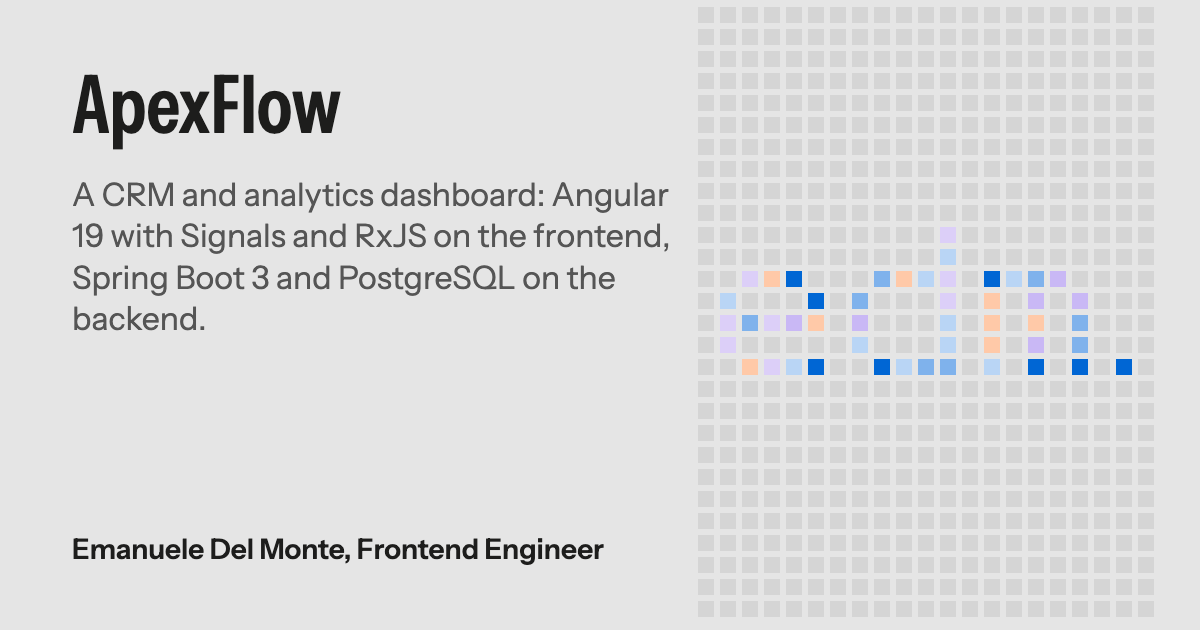
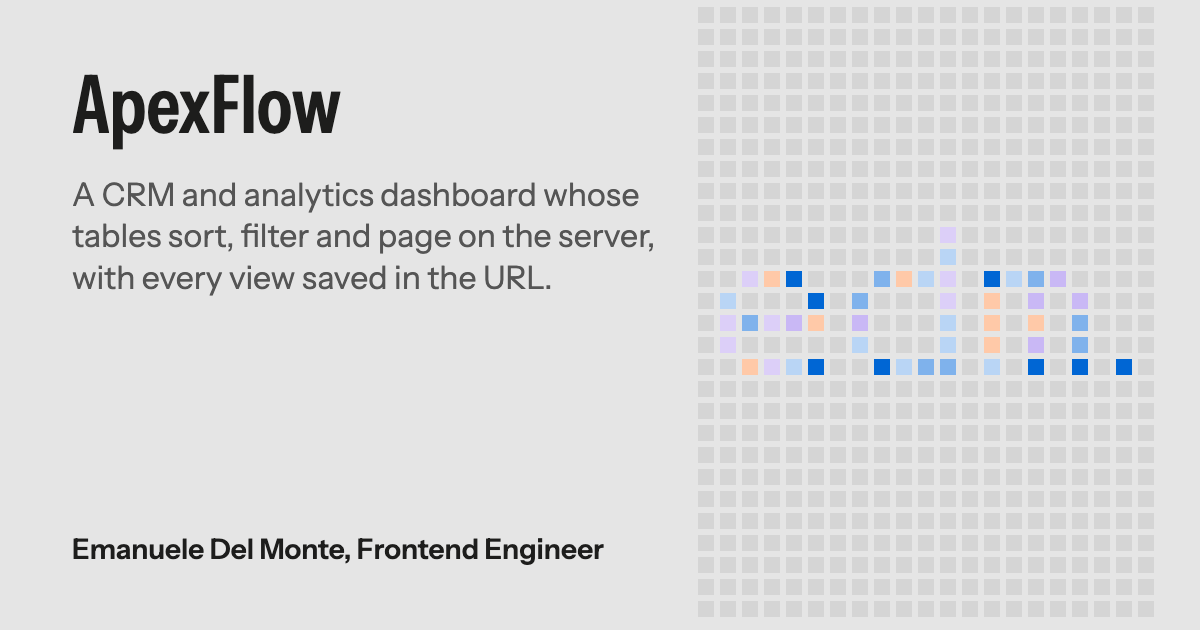
feat: sharper copy for hero, About, projects and contact (#389)
- Hero lede states the positioning: Angular interfaces that stay fast when the data gets big
- About statement becomes a point of view; the first paragraph tells the path since 2022
- ApexFlow summary says what the tables do instead of repeating the stack
- One contact question, "Hiring for a frontend role?", on the home and case studies
- New Project.result: one true outcome per project, bold above the summary and in the Markdown copy

Changed region(s): [[0.0617, 0.4222, 0.5242, 0.5429], [0.0617, 0.3317, 0.555, 0.3921], [0.4317, 0.2714, 0.555, 0.3317]]

diff --git a/src/app/content/content.it.ts b/src/app/content/content.it.ts
@@ -22,12 +22,12 @@ export const CONTENT_IT: SiteContent = {
   hero: {
     headline: 'Ingegnere per metodo, curioso per natura',
     voice: 'curioso per natura',
-    lede: 'Sono Emanuele, Frontend Engineer in IPS S.p.A. ad Aprilia. Costruisco app Angular enterprise con tabelle grandi che restano reattive, e lascio un easter egg a chi guarda bene.',
+    lede: 'Sono Emanuele, Frontend Engineer in IPS S.p.A. Costruisco interfacce Angular che restano veloci quando i dati diventano tanti, e lascio un easter egg a chi guarda bene.',
   },
-  aboutStatement: 'Curo le parti che nessuno vede ma tutti sentono.',
-  aboutVoice: 'ma tutti sentono.',
+  aboutStatement: 'Una tabella con migliaia di righe deve sembrare una con dieci.',
+  aboutVoice: 'una con dieci.',
   about: [
-    "Sono Emanuele Del Monte, Frontend Engineer a Latina. Costruisco frontend enterprise con Angular, Signals e RxJS: tabelle grandi che restano reattive, filtri che lavorano sul server, uno stato che resta prevedibile quando l'applicazione cresce. Prima di IPS ho lavorato circa due anni in una web agency su CRM, e-commerce e un configuratore di prodotto B2B. La mia tesi, ApexFlow, è una dashboard CRM full-stack con frontend Angular e backend Spring Boot.",
+    'Ho iniziato a costruire frontend nel 2022 in una web agency: CRM, e-commerce e Flexie, un configuratore B2B di imballaggi. Nel 2026 sono entrato in IPS S.p.A. come tirocinante, lì ho scritto la tesi e sono rimasto nel team di prodotto di una piattaforma di cybersecurity. La tesi, ApexFlow, è una dashboard CRM full-stack in Angular e Spring Boot.',
     "Claude Code fa parte della mia giornata: lo uso per scrivere e rivedere codice, impostare i test, orientarmi in API nuove e tenere aggiornata la documentazione. Ho anche studiato come i modelli linguistici arrivano a strumenti e dati reali, e ho costruito un server MCP per provarlo.",
   ],
   glance: [
@@ -42,8 +42,9 @@ export const CONTENT_IT: SiteContent = {
     {
       ...en('apexflow'),
       role: 'La mia tesi in Ingegneria Informatica, costruita durante il tirocinio in IPS S.p.A. nel 2026.',
+      result: 'Una sola chiamata API per ogni cambio di filtro, su ogni tabella.',
       summary:
-        'Una dashboard CRM e di analytics: Angular 19 con Signals e RxJS nel frontend, Spring Boot 3 e PostgreSQL nel backend.',
+        'Una dashboard CRM e di analisi con tabelle che ordinano, filtrano e paginano sul server, e ogni vista salvata nell\'URL.',
       repos: [
         { label: 'Codice del frontend', url: 'https://github.com/xdelmo/dashboard-tesi' },
       ],
@@ -84,6 +85,7 @@ export const CONTENT_IT: SiteContent = {
     {
       ...en('pokeverba'),
       role: 'Un progetto con un amico che scrive i contenuti; io costruisco e gestisco il sito. 2026.',
+      result: 'Un cruciverba quotidiano le cui risposte non arrivano mai al browser.',
       summary: 'Un cruciverba quotidiano sui Pokémon, con la collezione dei Pokémon catturati e un blog, in italiano e in inglese.',
       repos: [{ label: 'Codice su GitHub', url: 'https://github.com/xdelmo/pokeverba-site' }],
       image: {
@@ -122,6 +124,7 @@ export const CONTENT_IT: SiteContent = {
       ...en('wedding-3d-invite'),
       title: 'Invito di nozze 3D',
       role: 'Progettato e costruito da solo nel 2026, per il matrimonio di due amici.',
+      result: 'Un invito di nozze che si apre come una busta vera, poi smette di usare la GPU.',
       summary:
         'Un invito di nozze digitale pensato per il telefono: una busta di pizzo in Three.js che si apre al tocco, poi la giornata raccontata in undici slide, con RSVP e funzionamento offline.',
       repos: [{ label: 'Codice su GitHub', url: 'https://github.com/xdelmo/wedding-3d-invite' }],
@@ -179,7 +182,7 @@ export const CONTENT_IT: SiteContent = {
       org: 'IPS S.p.A.',
       summary: 'Sono entrato nel team frontend mentre finivo la laurea.',
       highlights: [
-        'Ho costruito ApexFlow, una dashboard per dati complessi, in Angular 19 con Signals.',
+        'Ho costruito ApexFlow, una dashboard CRM con tabelle lato server, in Angular 19 con Signals.',
         'Ho aggiunto filtri e paginazione lato server su grandi dataset, permessi per ruolo e unit test.',
       ],
       tags: ['Angular', 'Signals', 'RxJS', 'Tailwind CSS'],

diff --git a/src/app/content/content.en.ts b/src/app/content/content.en.ts
@@ -21,12 +21,12 @@ export const CONTENT_EN: SiteContent = {
   hero: {
     headline: 'Engineer by method, curious by nature',
     voice: 'curious by nature',
-    lede: "I'm Emanuele, Frontend Engineer at IPS S.p.A. in Aprilia. I\u00a0build enterprise Angular apps whose large tables stay responsive, and I\u00a0leave an easter egg for whoever looks closely.",
+    lede: "I'm Emanuele, Frontend Engineer at IPS S.p.A. I\u00a0build Angular interfaces that stay fast when the data gets big, and I\u00a0leave an easter egg for whoever looks closely.",
   },
-  aboutStatement: 'I care about the parts users never see but always feel.',
-  aboutVoice: 'but always feel.',
+  aboutStatement: 'A table with thousands of rows should feel like one with ten.',
+  aboutVoice: 'like one with ten.',
   about: [
-    "I'm Emanuele Del Monte, a Frontend Engineer based in Latina, Italy. I build enterprise frontends with Angular, Signals and RxJS: large tables that stay responsive, filters that run on the server, state that stays predictable when the app grows. Before IPS I spent about two years at a web agency building CRMs, e-commerce sites and a B2B product configurator. My thesis, ApexFlow, is a full-stack CRM dashboard with an Angular frontend and a Spring Boot backend.",
+    'I started building web frontends in 2022 at a web agency: CRMs, e-commerce sites and Flexie, a B2B packaging configurator. In 2026 I joined IPS S.p.A. as an intern, wrote my thesis there and stayed on the product team of a cybersecurity platform. The thesis, ApexFlow, is a full-stack CRM dashboard in Angular and Spring Boot.',
     "Claude Code is part of my day: I use it to write and review code, draft tests, find my way around new APIs and keep documentation up to date. I also studied how language models reach real tools and data, and built an MCP server to try it.",
   ],
   glance: [
@@ -42,8 +42,9 @@ export const CONTENT_EN: SiteContent = {
       slug: 'apexflow',
       title: 'ApexFlow',
       role: 'My Computer Engineering thesis, built during my internship at IPS S.p.A. in 2026.',
+      result: 'One API call per filter change, on every table.',
       summary:
-        'A CRM and analytics dashboard: Angular 19 with Signals and RxJS on the frontend, Spring Boot 3 and PostgreSQL on the backend.',
+        'A CRM and analytics dashboard whose tables sort, filter and page on the server, with every view saved in the URL.',
       stack: ['Angular', 'Signals', 'RxJS', 'PrimeNG', 'Spring Boot', 'PostgreSQL'],
       repos: [
         { label: 'Frontend code', url: 'https://github.com/xdelmo/dashboard-tesi' },
@@ -88,6 +89,7 @@ export const CONTENT_EN: SiteContent = {
       sprite: 'crossword',
       title: 'PokèVerba',
       role: 'A side project with a friend who writes the content; I build and run the site. 2026.',
+      result: 'A daily crossword whose answers never reach the browser.',
       summary: 'A daily Pokémon crossword with a collection of the Pokémon you catch and a blog, in Italian and English.',
       stack: ['WordPress', 'PHP', 'React', 'Vite'],
       repos: [{ label: 'Code on GitHub', url: 'https://github.com/xdelmo/pokeverba-site' }],
@@ -128,6 +130,7 @@ export const CONTENT_EN: SiteContent = {
       slug: 'wedding-3d-invite',
       title: 'Wedding 3D Invite',
       role: 'Designed and built on my own in 2026, for the wedding of two friends.',
+      result: 'A wedding invitation that opens like a real envelope, then stops using the GPU.',
       summary:
         'A mobile-first digital wedding invitation: a lace envelope in Three.js that opens at a tap, then the day told in eleven slides, with RSVP and offline support.',
       stack: ['React', 'TypeScript', 'Three.js', 'Tailwind CSS', 'Vite'],
@@ -187,7 +190,7 @@ export const CONTENT_EN: SiteContent = {
       org: 'IPS S.p.A.',
       summary: 'Joined the frontend team while finishing my degree.',
       highlights: [
-        'Built ApexFlow, a dashboard for complex data, in Angular 19 with Signals.',
+        'Built ApexFlow, a CRM dashboard with server-side tables, in Angular 19 with Signals.',
         'Added server-side filtering, pagination, role-based permissions and unit tests.',
       ],
       tags: ['Angular', 'Signals', 'RxJS', 'Tailwind CSS'],

diff --git a/e2e/about.spec.ts b/e2e/about.spec.ts
@@ -7,7 +7,7 @@ const lit = (page: Page) =>
 
 test('the About opens with a statement whose words light up as it scrolls by', async ({ page }) => {
   await page.goto('/en/');
-  await expect(statement(page)).toHaveText('I care about the parts users never see but always feel.');
+  await expect(statement(page)).toHaveText('A table with thousands of rows should feel like one with ten.');
   await expect.poll(async () => (await lit(page)).length).toBeGreaterThan(5);
   expect((await lit(page)).some((v) => v < 1)).toBe(true);
   await statement(page).evaluate((el) => {
@@ -26,7 +26,7 @@ test.describe('with reduced motion', () => {
   test('the statement is plain text in full colour', async ({ page }) => {
     await page.goto('/it/');
     await page.waitForTimeout(500);
-    await expect(statement(page)).toHaveText('Curo le parti che nessuno vede ma tutti sentono.');
+    await expect(statement(page)).toHaveText('Una tabella con migliaia di righe deve sembrare una con dieci.');
     expect(await lit(page)).toHaveLength(0);
   });
 });

diff --git a/src/app/sections/work-list/work-list.ts b/src/app/sections/work-list/work-list.ts
@@ -17,6 +17,7 @@ import { Depixelate } from '../../depixelate/depixelate.directive';
         <li class="project" [class.project--tall]="project.image && project.image.height > project.image.width">
           <div class="text">
             <h3 [style.view-transition-name]="'title-' + project.slug"><a class="touch-line" [routerLink]="['/work', project.slug]">{{ project.title }}</a></h3>
+            <p class="result">{{ project.result }}</p>
             <p>{{ project.summary }}</p>
             <p class="role">{{ project.role }}</p>
             <ul class="stack" i18n-aria-label="@@work.stack" aria-label="Technologies">
@@ -89,6 +90,9 @@ import { Depixelate } from '../../depixelate/depixelate.directive';
     }
     h3 a {
       color: var(--fg);
+    }
+    .result {
+      font-weight: 600;
     }
     .role {
       color: var(--fg-muted);

diff --git a/src/app/pages/home/home.ts b/src/app/pages/home/home.ts
@@ -96,7 +96,7 @@ import { Depixelate } from '../../depixelate/depixelate.directive';
     <section id="contact" class="section container band band--ink contact" aria-labelledby="contact-title">
       <app-pixel-dissolve class="seam" data-scrub [cols]="120" [rows]="3" [colors]="contactSeam" grow="up" />
       <div class="contact-text">
-        <p class="contact-lede" i18n="@@home.contact.lede">Building something with Angular, or hiring for a frontend role?</p>
+        <p class="contact-lede" i18n="@@home.contact.lede">Hiring for a frontend role?</p>
         <h2 id="contact-title">
           <a class="contact-link" [href]="'mailto:' + content.person.email"><span class="contact-label voice" i18n="@@home.contact.title">Let’s talk</span><app-pixel-arrow class="contact-arrow" /></a>
         </h2>

diff --git a/e2e/contact.spec.ts b/e2e/contact.spec.ts
@@ -6,8 +6,8 @@ const { version } = JSON.parse(readFileSync('package.json', 'utf8')) as { versio
 
 test.describe('contact finale', () => {
   for (const [lang, name, lede] of [
-    ['en', 'Let’s talk', 'Building something with Angular, or hiring for a frontend role?'],
-    ['it', 'Parliamone', 'Stai costruendo qualcosa con Angular o cerchi chi segua il frontend?'],
+    ['en', 'Let’s talk', 'Hiring for a frontend role?'],
+    ['it', 'Parliamone', 'Cerchi chi segua il frontend?'],
   ] as const) {
     test(`${lang}: the giant title is the email link, under one sentence on what to write about`, async ({ page }) => {
       await page.goto(`/${lang}/`);

diff --git a/src/app/content/content.spec.ts b/src/app/content/content.spec.ts
@@ -11,9 +11,10 @@ describe('content', () => {
   });
 
   it('writes the About paragraph in the first person, like the rest of the site', () => {
-    expect(CONTENT_EN.about[0]).toMatch(/^I'm Emanuele Del Monte/);
+    // the name and role are in the hero; the About opens on the path so far (#389)
+    expect(CONTENT_EN.about[0]).toMatch(/^I started /);
     expect(CONTENT_EN.about.join(' ')).not.toMatch(/Emanuele Del Monte is /);
-    expect(CONTENT_IT.about[0]).toMatch(/^Sono Emanuele Del Monte/);
+    expect(CONTENT_IT.about[0]).toMatch(/^Ho iniziato /);
     expect(CONTENT_IT.about.join(' ')).not.toMatch(/Emanuele Del Monte è /);
   });
 

diff --git a/src/app/content/content.model.ts b/src/app/content/content.model.ts
@@ -42,6 +42,8 @@ export interface Project {
   title: string;
   /** Whose project it is and in what context, said up front as a plain sentence: a thesis, a side project, with whom. */
   role: string;
+  /** The project's outcome in one line, shown above the summary on its card. */
+  result: string;
   summary: string;
   stack: readonly string[];
   /** Every repository, private ones too: the build links only the public ones (content/public-repos.ts). */

diff --git a/src/app/layout/contact-prompt.ts b/src/app/layout/contact-prompt.ts
@@ -6,7 +6,7 @@ import { CONTENT } from '../content/content';
   selector: 'app-contact-prompt',
   changeDetection: ChangeDetectionStrategy.OnPush,
   template: `
-    <p class="lead" i18n="@@contactPrompt.lead">Looking for a frontend engineer?</p>
+    <p class="lead" i18n="@@contactPrompt.lead">Hiring for a frontend role?</p>
     <a class="button button--primary" [href]="'mailto:' + email" i18n="@@contactPrompt.cta">Email me</a>
   `,
   styles: `

diff --git a/docs/superpowers/specs/2026-10-03-portfolio-v2-design.md b/docs/superpowers/specs/2026-10-03-portfolio-v2-design.md
@@ -416,3 +416,4 @@ Per i prossimi sviluppi: le domande aperte (titolo ufficiale, livello delle ling
 | 2026-11-08 | L'intro (nome lettera per lettera, riga di pixel, sollevamento) gira anche su telefoni e tablet, non più solo da 1024px con hover; resta una volta per sessione e mai con movimento ridotto. Sugli schermi stretti il nome va a capo tra le parole, mai dentro una. Sotto il pannello il testo dell'hero aspetta abbassato e mai trasparente, così si dipinge al primo render ed è l'LCP lì e non a 3,6 s (Lighthouse mobile della home da 0,88 a 0,98) (issue #381). |
 | 2026-11-08 | L'intro (nome lettera per lettera, riga di pixel, sollevamento) gira anche su telefoni e tablet, non più solo da 1024px con hover; resta una volta per sessione e mai con movimento ridotto. Sugli schermi stretti il nome va a capo tra le parole, mai dentro una. Sotto il pannello il testo dell'hero aspetta abbassato e mai trasparente, così si dipinge al primo render ed è l'LCP lì e non a 3,6 s (Lighthouse mobile della home da 0,88 a 0,98). Sui telefoni (sotto 1024px o senza hover) il pannello si solleva entro 2 s invece di 3,6 s e la timeline GSAP va 1,6 volte più veloce: una copertura più lunga costava lo Speed Index (Lighthouse mobile della home 0,94 → 0,98); il desktop non cambia (issue #381). |
 | 2026-11-08 | Il commit di release (`scripts/release.mjs`) non porta più `[skip ci]`: Netlify saltava il deploy di quel commit e il footer restava sulla versione precedente (v2.2.0 dopo la v2.3.0); alle Actions il marcatore non serve, perché i push con `GITHUB_TOKEN` non avviano workflow. Un test lo vieta e la checklist di /pr-release controlla il footer live | #386 |
+| 2026-11-09 | Testi più specifici (#389): il lede della hero dice il posizionamento ("Angular interfaces that stay fast when the data gets big"), la frase dell'About è un punto di vista ("A table with thousands of rows should feel like one with ten."), il primo paragrafo dell'About racconta il percorso dal 2022 senza ripetere nome e ruolo della hero, il summary di ApexFlow dice cosa fanno le tabelle invece dello stack, il contatto ha una sola domanda ("Hiring for a frontend role?") in home e nei case study. Ogni progetto ha un campo `result`, una riga di risultato vero in grassetto sopra il summary nella card e nella copia Markdown. |
